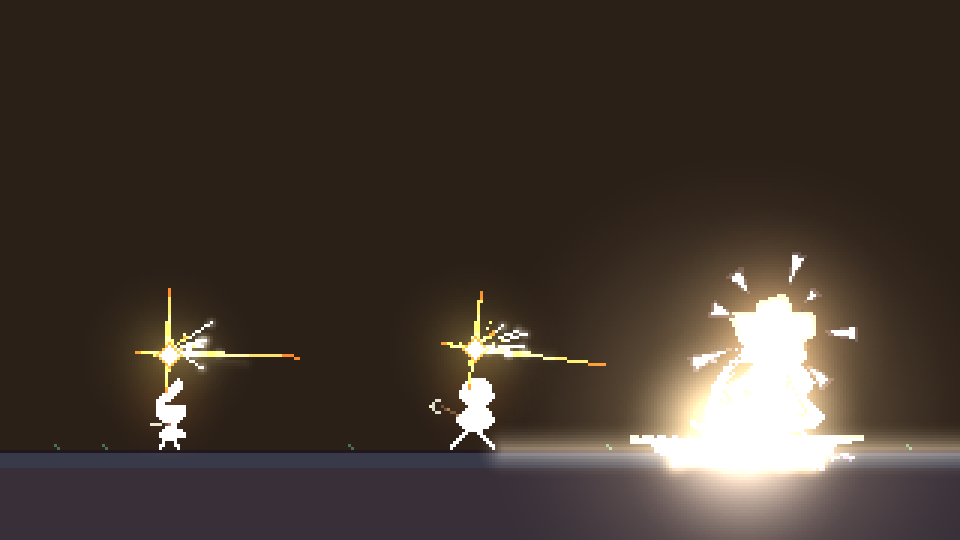
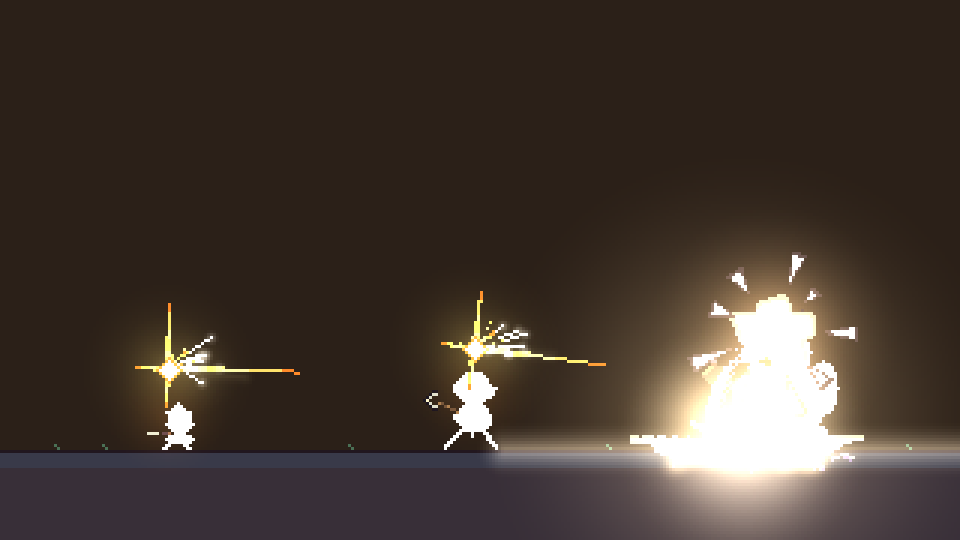
Refine enemy silhouettes and forest contrast

diff --git a/src/game/enemies/enemies.js b/src/game/enemies/enemies.js
@@ -25,44 +25,71 @@ const INK = "#17121f";
 const palettes = {
   gnome: { ".": null, i: INK, r: "#a92e43", R: "#e04c55", s: "#f3b86a", S: "#ffe0a0", b: "#eee4d0", B: "#fff8e7", l: "#54405a", L: "#8a6571", w: "#b8c6bb", W: "#e6f1db" },
   orc: { ".": null, i: INK, g: "#39734d", G: "#62a45e", h: "#a4ce75", d: "#274c3d", a: "#594536", A: "#896745", c: "#bd9861", C: "#e0bd7f", m: "#ded3b5", M: "#fff0ca", s: "#9ba4a0", S: "#d6d9ca", w: "#c6c4a8" },
-  ogre: { ".": null, i: INK, g: "#54764c", G: "#7fa45d", h: "#b6c879", d: "#3c5742", a: "#58443b", A: "#80634b", c: "#b88a5d", C: "#d8ad76", m: "#ded2b8", M: "#fff0cc", b: "#89513f", B: "#b56a4d", s: "#85816f", S: "#c0b899", w: "#d9cfad" },
+  ogre: { ".": null, i: INK, g: "#7d7a5c", G: "#a3a07a", h: "#c0bc8e", d: "#57543e", a: "#49372e", A: "#755642", c: "#a27a4e", C: "#c09462", m: "#ded2b8", M: "#fff0cc", b: "#89513f", B: "#b56a4d", s: "#85816f", S: "#c0b899", w: "#d9cfad" },
 };
 
 // Rows are drawn at native pixel size, with one ink pixel around the flat color shapes.
 const sprites = {
   gnome: [
-    ".......R.......", "......RiR......", ".....RiiR......", "....RiiRR......", "...RiiRR.......",
-    "..RiiRR........", ".RiiRR..........", "RiiRR...........", "iRR.............",
-    "iissSSssii......", "isSSSSSssi......", "iSSbSibSSi......", "iSSSSSSSSi......",
-    ".ibBBBBBi.......", "..ibBBBi........", "...ibBi.........", "...iSSi.........",
-    "..iLLLLLi.......", ".iiLLLLLii......", ".iilLLLlli......", "..iiiii.........",
-    "..i...i.........", ".ii...ii........", ".i.....i........",
+    ".......R........", "......RiR.......", ".....RiiiR......", "...RRRRRRRRR....",
+    "....iSSSSSSi....", "....iSSlSSSi....", "....iSSsSSSi....",
+    "...iiBBBBBBii...", "....iiBBBBii....", ".....iBBBBi.....", "......iBBi......",
+    "....iLLLLLLi....", "...iLLLLLLLLi...", "....iLLLLLLi....",
+    "...ii....ii.....", "..ii......ii....",
   ],
   orc: [
-    "........iiiiii..........", ".......iGGGGGGi.........", "......iGhhGGGGGi........", "......iGgGGGGGGi........",
-    ".....iGGGGGGGGGi........", ".....iGGmGGmGGGii.......", ".....iGGGGGGGGGmi.......", "......iGMMGMMGmi........",
-    ".......iGGGGGmi.........", "........iGGGGi...........", ".......iGGGGGGi..........", "......iGGGaaGGGi.........",
-    ".....iGGaaCAaGGi.........", "....iGGGaaCAaaGGi........", "....iGGGaaCAaaGGi........", ".....iGGGaaaaGGi..........",
-    "......iGGGGGGGi...........", ".......iaaaai.............", "......ia...ai.............", ".....ii.....ii............",
-    "....ii.......ii...........", "...ii.........ii..........", "..ii...........ii.........", "..i.............i.........",
-  ],
-  ogre: [
-    "..............iiiiii..............", "............iiiGGGGGii.............", "..........iiGGGGGGGGGGii............", ".........iGGGhhGGGGGGGGGi...........",
-    "........iGGGGGGGGGGGGGGGGi..........", ".......iGGGGGGGGGGGGGGGGGGi.........", "......iGGGGGGGGGGGGGGGGGGGGi........",
-    "......iGGGmGGGmGGGGGGGmGGGmi.........", ".....iGGGGGGGGGGGGGGGGGGGGGmi........", ".....iGGGGGMMGGGGGGGMMGGGGGGmi........",
-    "......iGGGGGGGGGGGGGGGGGGGGmi.........", ".......iGGGGGGGGGGGGGGGGGGGmi..........", "........iGGGGGGGGGGGGGGGGGmi...........",
-    ".........iGGGGGhhhhhGGGGGmi............", ".........iGGGGhhhhhhhGGGGmi.............", "........iGGGGGhhhhhGGGGGGGmi............",
-    ".......iGGGGGGGGGGGGGGGGGGGGi...........", "......iGGGGGGGGGGGGGGGGGGGGGGi..........", ".....iGGGGGGGGGGGGGGGGGGGGGGGGi.........",
-    "....iGGGGGGGaaAAAAAaaGGGGGGGGGGi........", "...iGGGGGGaaACCCCAaaGGGGGGGGGGGmi........", "...iGGGGGGaaACCCCAaaGGGGGGGGGGGmi........",
-    "....iGGGGGaaAAAAAAAaaGGGGGGGGGGi..........", ".....iGGGGGGGGGGGGGGGGGGGGGGGGi............",
-    "......iGGGGGGGGGGGGGGGGGGGGGGi.............", ".......iaaaaaaGGGaaaaaaaai................", "......ia......i...i......ai...............",
-    ".....iaa......i...i......aa i..............", "....iaa.......i...i.......aai..............", "...ii..........i.i..........ii.............",
-    "..ii...........i.i...........ii............", ".ii.............i.............ii...........",
+    "........iiiiii..........", ".......iGGGGGGi.........", "......iGhhGGGGGi........", ".....iGGGGGGGGGi........",
+    "....iGGGGGGGGGGGi.......", "....iGdddGGGdddGGii......", "....iGGGGGGGGGGGmi......", ".....iGGGMMMMGGGmi.......",
+    "......iGGGMMGGGmi........", ".......iGGGMMmi..........", "........iGGGGi............", ".......iGGGGGGi...........",
+    "......iGGGaaGGGi..........", ".....iGGaaCAaGGi..........", "....iGGGaaCAaaGGi.........", "....iGGGaaCAaaGGi.........",
+    ".....iGGGAAAAaGGi..........", "......iGGAcCAaGGi.........", ".......iGGGGGGGi...........", "......iaaaaaaai.............",
+    ".....ia...a...ai............", "....ii....a....ii...........", "...ii..........ii...........", "..ii............ii..........",
+    ".ii..............ii.........", ".i................i.........",
   ],
 };
 
+function makeOgreSprite() {
+  const grid = Array.from({ length: 40 }, () => Array(36).fill("."));
+  const ellipse = (cx, cy, rx, ry, fill) => {
+    for (let y = Math.max(0, Math.floor(cy - ry - 1)); y <= Math.min(39, cy + ry + 1); y++)
+      for (let x = Math.max(0, Math.floor(cx - rx - 1)); x <= Math.min(35, cx + rx + 1); x++) {
+        const d = ((x - cx) / rx) ** 2 + ((y - cy) / ry) ** 2;
+        if (d <= 1) grid[y][x] = "i";
+        if (d <= 0.72) grid[y][x] = fill;
+      }
+  };
+  const rect = (x, y, w, h, fill) => {
+    for (let yy = y; yy < y + h; yy++) for (let xx = x; xx < x + w; xx++) grid[yy][xx] = fill;
+  };
+  // Feet and legs sit behind the broad body.
+  ellipse(10, 35, 5, 4, "d"); ellipse(26, 35, 5, 4, "d");
+  ellipse(8, 38, 7, 2, "d"); ellipse(28, 38, 7, 2, "d");
+  ellipse(7, 19, 5, 9, "d"); ellipse(29, 19, 5, 9, "g");
+  ellipse(7, 20, 3, 6, "g"); ellipse(29, 20, 3, 6, "G");
+  // A smaller head, heavy shoulders, and a rounded belly make the scale read clearly.
+  ellipse(18, 7, 7, 7, "g");
+  ellipse(16, 6, 3, 3, "G");
+  ellipse(18, 22, 13, 13, "g");
+  ellipse(19, 25, 8, 6, "G");
+  ellipse(14, 16, 6, 5, "G");
+  // Eyes, brow, underbite and two tusks.
+  rect(13, 5, 4, 1, "i"); rect(20, 5, 4, 1, "i");
+  rect(14, 6, 2, 2, "m"); rect(21, 6, 2, 2, "m");
+  rect(15, 6, 1, 2, "i"); rect(22, 6, 1, 2, "i");
+  rect(13, 10, 11, 2, "d");
+  rect(13, 11, 2, 3, "M"); rect(22, 11, 2, 3, "M");
+  rect(16, 12, 6, 1, "i");
+  // Leather loincloth with a belt, bright studs and separate pleats.
+  rect(9, 29, 18, 2, "i"); rect(10, 30, 16, 4, "a");
+  rect(10, 30, 16, 1, "A"); rect(17, 30, 3, 2, "C");
+  rect(12, 32, 1, 2, "c"); rect(17, 32, 1, 2, "c"); rect(22, 32, 1, 2, "c");
+  return grid.map((row) => row.join(""));
+}
+
+sprites.ogre = makeOgreSprite();
+
 const stats = {
-  gnome: { hp: 2, speed: 38, reach: 19, attack: 0.62, contact: 0.28, height: 25, impact: hitSpark },
+  gnome: { hp: 2, speed: 38, reach: 19, attack: 0.62, contact: 0.28, height: 16, impact: hitSpark },
   orc: { hp: 3, speed: 23, reach: 25, attack: 0.92, contact: 0.43, height: 29, impact: hitSpark },
   ogre: { hp: 5, speed: 12, reach: 32, attack: 1.3, contact: 0.68, height: 39, impact: bluntHit },
 };
@@ -202,12 +229,12 @@ export function createEnemy(kind, opts = {}) {
           C[py * W + px] = colorValue(flash ? "#ffffff" : (colors[key] ?? INK));
         }
       }
-      // A dagger, axe or club extends left from the hand during its broad swing.
-      if (attackT > 0 || !walk) {
+      // Each weapon stays in hand while approaching and follows the attack swing.
+      {
         const swing = attackT > 0 ? attackU : 0;
-      const handX = left + Math.floor(width * 0.3) - Math.round(swing * 4);
-      const handY = top + Math.floor(rows.length * 0.64) - Math.round(Math.sin(swing * Math.PI) * 5);
-        const handleLen = kind === "gnome" ? 2 : kind === "orc" ? 6 : 8;
+        const handX = left + Math.floor(width * 0.3) - Math.round(swing * 4);
+        const handY = top + Math.floor(rows.length * 0.64) - Math.round(Math.sin(swing * Math.PI) * 5);
+        const handleLen = kind === "gnome" ? 3 : kind === "orc" ? 7 : 15;
         const wood = colorValue(kind === "gnome" ? "#59404a" : kind === "orc" ? "#684c37" : "#60463b");
         const brightWood = colorValue(kind === "orc" ? "#a27a4e" : "#a07053");
         const metal = colorValue(kind === "gnome" ? "#dce2cf" : "#d6d9ca");
@@ -217,18 +244,22 @@ export function createEnemy(kind, opts = {}) {
         for (let n = 0; n < handleLen; n++) {
           const px = handX - n, py = handY - Math.round(swing * n * 0.65);
           put(px, py, n % 3 === 0 ? brightWood : wood);
+          if (kind === "ogre") put(px, py + 1, wood);
         }
         const tipX = handX - handleLen, tipY = handY - Math.round(swing * handleLen * 0.65);
         if (kind === "gnome") {
           for (let n = 1; n <= 4; n++) put(tipX - n, tipY - Math.round(swing * n * 0.35), metal);
         } else if (kind === "orc") {
-          // The axe head sits across the haft, with a bright cutting edge facing left.
-          for (const [dx, dy] of [[0, -2], [-1, -2], [-2, -1], [-2, 0], [-2, 1], [-1, 2], [0, 2]]) put(tipX + dx, tipY + dy, metal);
+          // Dark edging and a broad crescent make the axe head read at native scale.
+          const blade = [[0, -3], [-1, -3], [-2, -2], [-3, -1], [-4, 0], [-3, 1], [-2, 2], [-1, 3], [0, 3]];
+          for (const [dx, dy] of blade) put(tipX + dx, tipY + dy, colorValue(INK));
+          for (const [dx, dy] of [[0, -2], [-1, -2], [-2, -1], [-3, 0], [-2, 1], [-1, 2], [0, 2]]) put(tipX + dx, tipY + dy, metal);
           put(tipX - 3, tipY, colorValue("#fff0ca"));
         } else {
           // A broad dark club with a single lit knot at its striking end.
-          for (const [dx, dy] of [[0, -2], [-1, -2], [1, -2], [-2, -1], [-1, -1], [0, -1], [1, -1], [2, -1], [-2, 0], [-1, 0], [0, 0], [1, 0], [2, 0], [-1, 1], [0, 1], [1, 1]]) put(tipX + dx, tipY + dy, wood);
-          put(tipX - 1, tipY - 1, brightWood);
+          for (const [dx, dy] of [[0, -4], [-1, -4], [-2, -3], [-1, -3], [0, -3], [1, -3], [2, -3], [3, -2], [-3, -2], [-2, -2], [-1, -2], [0, -2], [1, -2], [2, -2], [3, -1], [4, -1], [-4, -1], [-3, -1], [-2, -1], [-1, -1], [0, -1], [1, -1], [2, -1], [3, -1], [-4, 0], [-3, 0], [-2, 0], [-1, 0], [0, 0], [1, 0], [2, 0], [3, 0], [4, 0], [-3, 1], [-2, 1], [-1, 1], [0, 1], [1, 1], [2, 1], [3, 1], [-2, 2], [-1, 2], [0, 2], [1, 2], [2, 2]]) put(tipX + dx, tipY + dy, wood);
+          for (const [dx, dy] of [[-2, -3], [-1, -3], [-3, -2], [-2, -2], [-4, -1], [-3, -1]]) put(tipX + dx, tipY + dy, brightWood);
+          put(tipX + 3, tipY + 1, colorValue("#48352b"));
         }
       }
       impactFx?.draw(frame);
